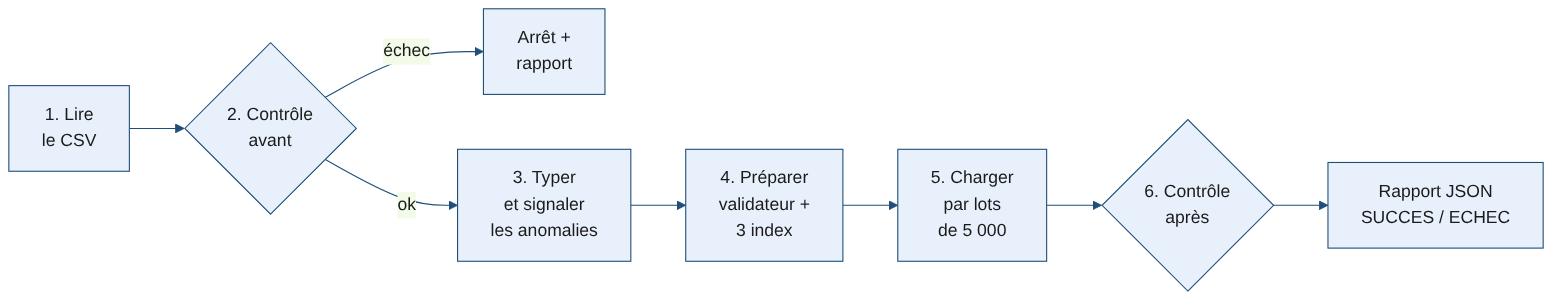
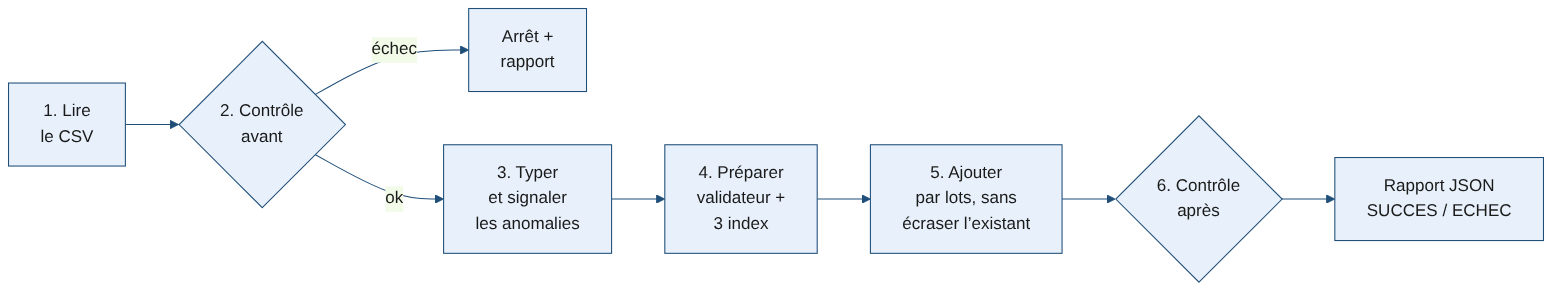
README : section sécurité du chargement ; schémas mis à jour

diff --git a/README.md b/README.md
@@ -12,11 +12,12 @@ Un client de DataSoluTech gère les admissions de ses patients dans un fichier C
 2. [Contenu du dépôt](#2-contenu-du-dépôt)
 3. [Déployer pas à pas](#3-déployer-pas-à-pas)
 4. [Logique de la migration](#4-logique-de-la-migration)
-5. [Schéma de la base de données](#5-schéma-de-la-base-de-données)
-6. [Authentification et rôles utilisateurs](#6-authentification-et-rôles-utilisateurs)
-7. [Tests](#7-tests)
-8. [Architecture Docker](#8-architecture-docker)
-9. [Choix techniques](#9-choix-techniques)
+5. [Sécurité du chargement](#5-sécurité-du-chargement)
+6. [Schéma de la base de données](#6-schéma-de-la-base-de-données)
+7. [Authentification et rôles utilisateurs](#7-authentification-et-rôles-utilisateurs)
+8. [Tests](#8-tests)
+9. [Architecture Docker](#9-architecture-docker)
+10. [Choix techniques](#10-choix-techniques)
 
 ---
 
@@ -25,6 +26,8 @@ Un client de DataSoluTech gère les admissions de ses patients dans un fichier C
 | Entrée | Traitement | Sortie |
 |---|---|---|
 | `healthcare_dataset.csv` : 55 500 admissions, 15 colonnes | contrôle → typage → transformation → chargement → contrôle | base `healthcare`, collection `admissions` : 55 500 documents + rapport `reports/rapport_migration.json` |
+
+La migration est **sûre** : elle n'écrase jamais des données existantes. Une relance, une interruption ou l'arrivée d'un nouveau fichier ne fait ni perte ni doublon (voir [§5](#5-sécurité-du-chargement)).
 
 La migration est **fidèle** : aucune ligne n'est supprimée et aucune valeur n'est modifiée. Seuls les types sont convertis. Les anomalies détectées (doublons, montants négatifs, casse des noms) sont **signalées** dans le rapport ; les corriger est une décision du client.
 
@@ -47,7 +50,7 @@ Le programme s'arrête et le signale si les données ne sont pas fiables (colonn
 │   ├── migrate.py              # script principal
 │   ├── crud_demo.py            # démonstration Create / Read / Update / Delete
 │   └── export_data.py          # export de toutes les données (JSON)
-├── tests/                      # 18 tests automatisés (pytest)
+├── tests/                      # 23 tests automatisés (pytest)
 ├── docs/                       # schémas (base, architecture, rôles, pipeline)
 ├── data/                       # y déposer le CSV (non versionné)
 └── reports/                    # le rapport de migration y est écrit
@@ -139,9 +142,9 @@ python -m pytest                   # les tests n'ont pas besoin de MongoDB
 | 1. Lire | `pandas` lit le CSV ; arrêt si une des 15 colonnes manque | Ne jamais migrer un fichier incomplet |
 | 2. Contrôler avant | valeurs manquantes, doublons, valeurs hors liste, dates, âges | Savoir ce qu'on migre ; arrêt si une anomalie bloque |
 | 3. Typer et signaler | dates converties en vrai type date ; doublons, montants négatifs et casse des noms comptés dans le rapport | Bien typer sans modifier les valeurs du client |
-| 4. Préparer | collection recréée avec un **validateur de schéma** et **3 index** | MongoDB refuse un document mal typé ; recherches rapides |
-| 5. Charger | insertion par lots de 5 000 documents | Moins d'allers-retours avec la base |
-| 6. Contrôler après | nombre de documents, champs présents, types BSON, index | Prouver que rien n'a été perdu ni déformé |
+| 4. Préparer | collection créée si elle n'existe pas, avec un **validateur de schéma** et **3 index** ; chaque document reçoit un **identifiant stable** | MongoDB refuse un document mal typé ; recherches rapides ; pas de doublon à la relance |
+| 5. Charger | insertion par lots de 5 000 ; un document déjà présent est ignoré, jamais écrasé | Rien n'est perdu, rien n'est doublé |
+| 6. Contrôler après | chaque document du fichier est en base (par son identifiant), champs présents, types BSON, index | Prouver que rien n'a été perdu ni déformé |
 
 **Migration fidèle : ce qui est fait et pourquoi**
 
@@ -154,20 +157,38 @@ L'énoncé demande de **tester** l'intégrité (doublons, valeurs manquantes, ty
 | Casse irrégulière des noms (« Bobby JacksOn ») | 55 467 | **signalée, conservée** | Modifier un nom, c'est modifier une donnée du client |
 
 - **Typage** : seule transformation appliquée, car demandée par l'énoncé. Les dates deviennent de vraies dates ; la forme change, pas le contenu.
-- **Relance** : chaque exécution recrée la collection. Relancer le script donne toujours le même résultat, sans doublons ajoutés.
 - **Dédoublonnage sur validation du client** : mettre `DEDUPLICATE=true` dans `.env`, puis `docker compose down -v` et `docker compose up --build`. Résultat : 54 966 documents.
 
-## 5. Schéma de la base de données
+## 5. Sécurité du chargement
+
+Le script **ne supprime jamais la collection avant de charger**. Il propose deux modes, choisis avec `MIGRATION_MODE` dans `.env` :
+
+| Mode | Fonctionnement | Interruption en plein chargement | Nouveau fichier |
+|---|---|---|---|
+| **`ajout`** (par défaut) | Chaque ligne reçoit un **identifiant stable** (empreinte SHA-256 de ses valeurs + n° d'occurrence). Un document déjà présent est ignoré, jamais écrasé. | Les documents déjà chargés restent ; **relancer termine le travail**, sans doublon. | Les nouvelles admissions sont **ajoutées**, les anciennes **conservées**. |
+| **`remplacement`** | Chargement dans `admissions_temporaire`, contrôle, puis **remplacement en une seule opération** (renommage). | La collection `admissions` n'a **pas été touchée** : l'ancienne version reste intacte. | La collection est remplacée par le contenu du nouveau fichier. |
+
+Pourquoi l'identifiant inclut un numéro d'occurrence : deux lignes strictement identiques du fichier (les 534 doublons) reçoivent `-1` et `-2`. Elles sont toutes les deux conservées, conformément à la migration fidèle.
+
+Le compte `app_migration` (rôle `readWrite`) a les droits nécessaires : insérer, créer et renommer une collection dans sa base. Aucun droit supplémentaire n'est donné.
+
+Exemples :
+```bash
+docker compose up --build                                   # mode ajout (par défaut)
+docker compose run --rm -e MIGRATION_MODE=remplacement migration   # mode remplacement
+```
+
+## 6. Schéma de la base de données
 
 ![Schéma de la base de données](docs/schema_base_donnees.png)
 
-- **Base** `healthcare` → **collection** `admissions` → **un document par admission**.
+- **Base** `healthcare` → **collection** `admissions` → **un document par admission**, identifié par son **identifiant stable** (`_id`).
 - Chaque document regroupe les 15 colonnes du CSV en **4 sous-documents** qui correspondent aux usages : `patient`, `admission`, `medical`, `billing`.
 
 Exemple de document :
 ```json
 {
-  "_id": "ObjectId('...')",
+  "_id": "3f9c2a…-1",
   "patient":   { "name": "Bobby JacksOn", "age": 30, "gender": "Male", "blood_type": "B-" },
   "admission": { "date_of_admission": "ISODate('2024-01-31')", "discharge_date": "ISODate('2024-02-02')",
                  "admission_type": "Urgent", "hospital": "Sons and Miller",
@@ -191,7 +212,7 @@ Exemple de document :
 - **Collection** : un ensemble de documents, l'équivalent d'une table, sans schéma imposé (ici, un validateur en ajoute un).
 - **Base de données** : un ensemble de collections, avec ses propres utilisateurs.
 
-## 6. Authentification et rôles utilisateurs
+## 7. Authentification et rôles utilisateurs
 
 ![Rôles utilisateurs](docs/roles_utilisateurs.png)
 
@@ -210,19 +231,19 @@ Exemple de document :
 - **Mots de passe hors du code** : ils sont dans le fichier `.env`, exclu de GitHub par `.gitignore`. Le dépôt ne contient que `.env.example`.
 - **Hachage des mots de passe** : MongoDB ne stocke jamais un mot de passe en clair. Il conserve une empreinte **salée et hachée** avec le mécanisme **SCRAM-SHA-256**. Même un accès aux fichiers de la base ne révèle pas les mots de passe.
 
-## 7. Tests
+## 8. Tests
 
-18 tests automatisés avec `pytest`. Ils utilisent `mongomock`, une base MongoDB simulée en mémoire, et n'ont donc pas besoin d'un serveur.
+23 tests automatisés avec `pytest`. Ils utilisent `mongomock`, une base MongoDB simulée en mémoire, et n'ont donc pas besoin d'un serveur.
 
 | Fichier | Ce qui est vérifié |
 |---|---|
 | `test_transform.py` | colonnes obligatoires, migration fidèle (aucune valeur modifiée), anomalies signalées, dédoublonnage en option, structure et types des documents |
 | `test_integrity.py` | contrôles avant (valeur inconnue, valeur manquante, dates incohérentes) et après (document perdu, mauvais type) |
-| `test_migration.py` | migration complète, relance sans doublon, option de dédoublonnage, opérations CRUD, export complet |
+| `test_migration.py` | migration complète, relance sans doublon, **2e fichier ajouté sans écraser**, **interruption puis relance**, **mode remplacement (échec = ancienne version intacte)**, dédoublonnage, CRUD, export |
 
 En plus, **chaque migration réelle** exécute les contrôles avant et après sur les vraies données, et écrit le résultat dans `reports/rapport_migration.json`.
 
-## 8. Architecture Docker
+## 9. Architecture Docker
 
 ![Architecture Docker](docs/architecture_docker.png)
 
@@ -239,7 +260,7 @@ En plus, **chaque migration réelle** exécute les contrôles avant et après su
 
 **Le démon Docker** (`dockerd`) est le service qui crée et fait tourner les conteneurs ; la commande `docker` ne fait que lui envoyer des ordres. Ses limites : s'il s'arrête, tous les conteneurs s'arrêtent ; il tourne avec des droits élevés ; il gère une seule machine (pour plusieurs serveurs, il faut un orchestrateur, comme Amazon ECS).
 
-## 9. Choix techniques
+## 10. Choix techniques
 
 | Choix | Raison |
 |---|---|
@@ -251,6 +272,8 @@ En plus, **chaque migration réelle** exécute les contrôles avant et après su
 | **pandas** | lecture et contrôles du CSV en quelques lignes |
 | **pymongo** | pilote officiel de MongoDB pour Python |
 | **Insertion par lots** | plus rapide qu'un document à la fois, sans tout envoyer d'un coup |
+| **Identifiant stable + mode ajout** | une relance ou un nouveau fichier ne peut ni écraser ni doubler les données |
+| **Collection temporaire + renommage** | en mode remplacement, la base n'est jamais à moitié chargée |
 | **Docker Compose** | un seul fichier décrit et lance toute l'infrastructure |
 | **`depends_on` + `healthcheck`** | le script n'est lancé que lorsque MongoDB répond |
 
